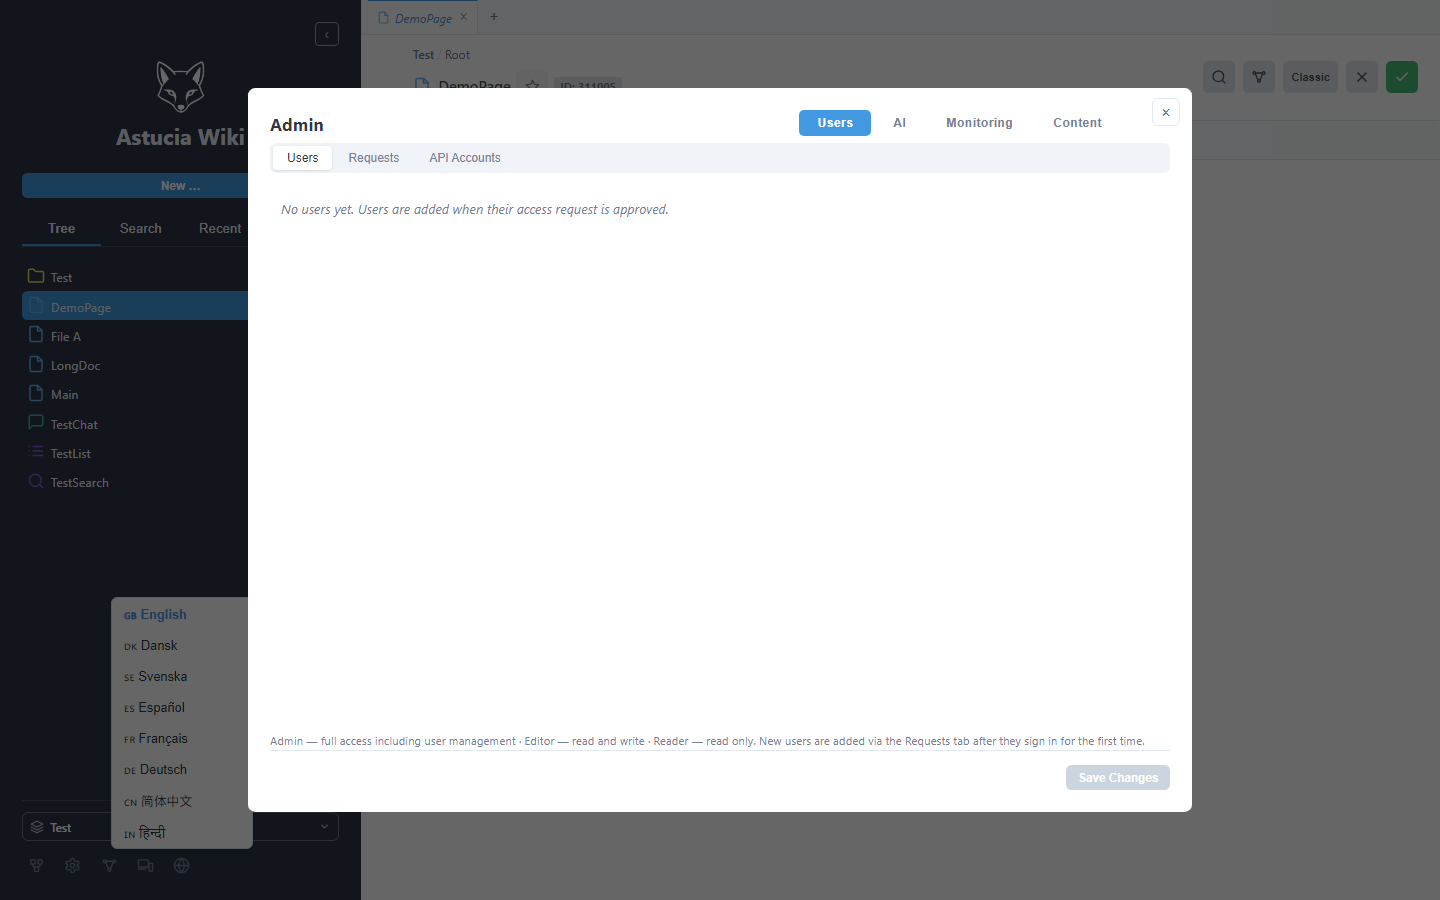
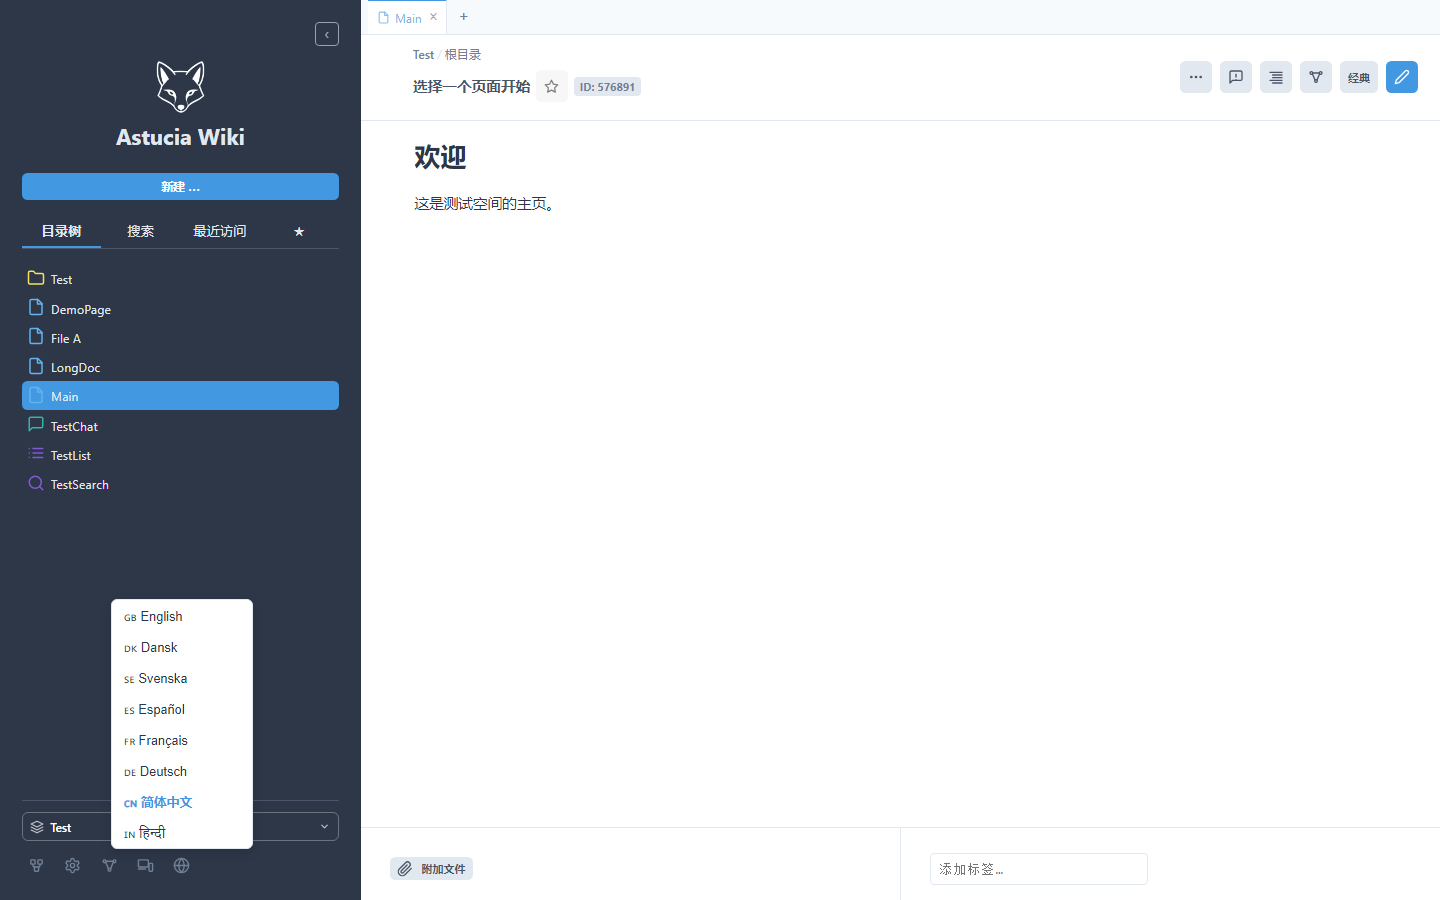
screenshots: refresh to 5 Chinese-UI feature shots (tabs-multi, ctx-menu, i18n-zh, i18n-admin, lang-dropdown)

diff --git a/README.zh.md b/README.zh.md
@@ -24,7 +24,7 @@
 附带的基础修复：文件树刷新不再收起已展开的目录；Tab 编辑状态跨标签切换完整恢复；
 管理员可删除 Space、在文件管理器中显示文件（Windows/macOS/Linux）。
 
-![主界面（英文 UI）：侧边栏标签、文件树、内容、顶部插件 tabs](screenshots/browse.png)
+![多标签页：一个编辑中（斜体 + 未保存圆点），其余预览](screenshots/tabs-multi.png)
 
 **8 语言全量本地化**：en/zh/hi/da/sv/es/fr/de 共 **7800+ key**（zh 994、hi 1001、de 781…）。
 侧边栏 / 搜索 / TOC / 面板标题 / 编辑 / 历史 / 管理 / 偏好设置 / 各弹窗 等 UI 字符串切换语言即时生效。
@@ -33,7 +33,7 @@
   admin 分组"用户/AI/监控/内容"、各 modal 标题等——此前这些是遗漏点）
 - 43 个模块级 i18n 改动（admin/chat/list/toc/...）以 Tier 2 整体替换方式打包
 
-![Admin 面板：分组标签（Users / AI / Monitoring / Content）跟随语言切换](screenshots/admin.png)
+![Admin 面板：分组标签（Users / AI / Monitoring / Content）跟随语言切换](screenshots/i18n-admin.png)
 
 **操作日志审计**：复用项目自带的 `write_access_log`，在 11 类关键动作的成功分支
 插入审计调用：FILE_UPDATE / FILE_CREATE / FILE_DELETE / FOLDER_CREATE / FOLDER_DELETE /
@@ -49,7 +49,7 @@ SPACE_CREATE / SPACE_RENAME / SPACE_DELETE / FILE_REVEAL。日志格式
 > TOC 面板（Contents / 目录 / Inhalt）全部正确翻译；
 > 11 类审计事件全部触发并写入日志，零页面错误。
 
-![文件右键菜单：在新标签页打开 / 复制 / 移动 / 重命名 / 反向链接 / 删除 / 在文件管理器中显示](screenshots/context-menu.png)
+![文件右键菜单：在新标签页打开 / 复制 / 移动 / 重命名 / 反向链接 / 删除 / 在文件管理器中显示](screenshots/ctx-menu.png)
 > 语言切换实测 en / zh / de：搜索框（Search pages… / 搜索页面… / Seiten suchen…）、
 > TOC 面板（Contents / 目录 / Inhalt）全部正确翻译；
 > 11 类审计事件全部触发并写入日志，零页面错误。
@@ -115,11 +115,11 @@ astucia-wiki-plugins/
 ├── installer/
 │   ├── install.sh           # 安装（备份+复制+打补丁，幂等）
 │   └── uninstall.sh         # 卸载（从备份恢复）
-└── screenshots/             # 实测截图
-    ├── browse.png            # 主界面（英文 UI）：侧边栏 / 文件树 / 内容 / 顶部 tabs
-    ├── editing.png           # 编辑模式：斜体 tab + 未保存圆点
-    ├── context-menu.png      # 文件右键菜单
-    ├── admin.png             # Admin 面板：分组标签跟随语言
+└── screenshots/             # 实测截图（中文 UI 展示本地化）
+    ├── tabs-multi.png        # 多标签页：一个编辑中（斜体+圆点），其余预览
+    ├── ctx-menu.png          # 文件右键菜单
+    ├── i18n-zh.png           # 全中文 UI（侧边栏/按钮/底部全部翻译）
+    ├── i18n-admin.png        # Admin 面板：分组标签中文
     └── lang-dropdown.png     # 语言下拉：8 种语言
 ```
 
@@ -149,4 +149,4 @@ astucia-wiki-plugins/
 
 如果 2–3 步异常，多半是浏览器缓存，强制刷新后重试。
 
-![编辑模式：当前 tab 名变斜体、出现未保存圆点](screenshots/editing.png)
+![编辑模式：当前 tab 名变斜体、出现未保存圆点（多标签页中突出显示）](screenshots/tabs-multi.png)

diff --git a/README.md b/README.md
@@ -23,7 +23,7 @@ your Astucia Wiki project root
 
 Bonus fixes: file tree no longer collapses expanded folders on refresh; tab edit state survives switching; admins can delete a Space and reveal a file in the OS file manager (Windows / macOS / Linux).
 
-![Main UI — sidebar tabs (Tree / Search / Recent), file tree, viewer, plugin tabs at top](screenshots/browse.png)
+![Multiple tabs at once — one being edited (italic + dot), others previewed](screenshots/tabs-multi.png)
 
 **Full 8-language localization**: en / zh / hi / da / sv / es / fr / de, **7800+ keys** total
 (zh 994 · hi 1001 · de 781 · ...). Every visible UI string — sidebar tabs, search box,
@@ -33,7 +33,7 @@ Coverage:
   sidebar tabs, admin pane groups, every modal title, share / chat / AI-clone dialogs
 - 43 modules (admin / chat / list / toc / ...) shipped as whole files with their R10 i18n deltas
 
-![Admin panel — group tabs (Users / AI / Monitoring / Content) translated to the active language](screenshots/admin.png)
+![Admin panel — group tabs (Users / AI / Monitoring / Content) translated to the active language](screenshots/i18n-admin.png)
 
 **Operation audit log**: reuses the project's built-in `write_access_log`. Adds calls in
 11 critical success branches: FILE_UPDATE / FILE_CREATE / FILE_DELETE / FOLDER_CREATE /
@@ -114,15 +114,15 @@ astucia-wiki-plugins/
 ├── installer/
 │   ├── install.sh           # install (backup + copy + patch, idempotent)
 │   └── uninstall.sh         # uninstall (restore from backup)
-└── screenshots/             # proof-of-work screenshots
-    ├── browse.png            # main UI: sidebar tabs / file tree / viewer / plugin tabs
-    ├── editing.png           # edit mode: italic tab + unsaved dot
-    ├── context-menu.png      # file right-click context menu
-    ├── admin.png             # admin panel: group tabs translated
+└── screenshots/             # proof-of-work screenshots (Chinese UI — localization in action)
+    ├── tabs-multi.png        # multiple tabs: one being edited (italic + dot), others previewed
+    ├── ctx-menu.png          # file right-click context menu
+    ├── i18n-zh.png           # full Chinese UI (sidebar tabs / buttons / footer all translated)
+    ├── i18n-admin.png        # admin panel: group tabs (Users/AI/Monitoring/Content) in Chinese
     └── lang-dropdown.png     # language picker: 8 languages
 ```
 
-![Edit mode — active tab name becomes italic, unsaved dot appears](screenshots/editing.png)
+![Edit mode — active tab name becomes italic, unsaved dot appears](screenshots/tabs-multi.png)
 
 ## Compatibility notes
 
@@ -139,7 +139,7 @@ astucia-wiki-plugins/
   marker blocks cleanly undoes everything. See the per-plugin header comments for
   the manual removal recipe.
 
-![File right-click context menu — open in new tab / duplicate / move / rename / Backlinks / delete / reveal](screenshots/context-menu.png)
+![File right-click context menu — open in new tab / duplicate / move / rename / Backlinks / delete / reveal](screenshots/ctx-menu.png)
 
 ## Verify the install
 
